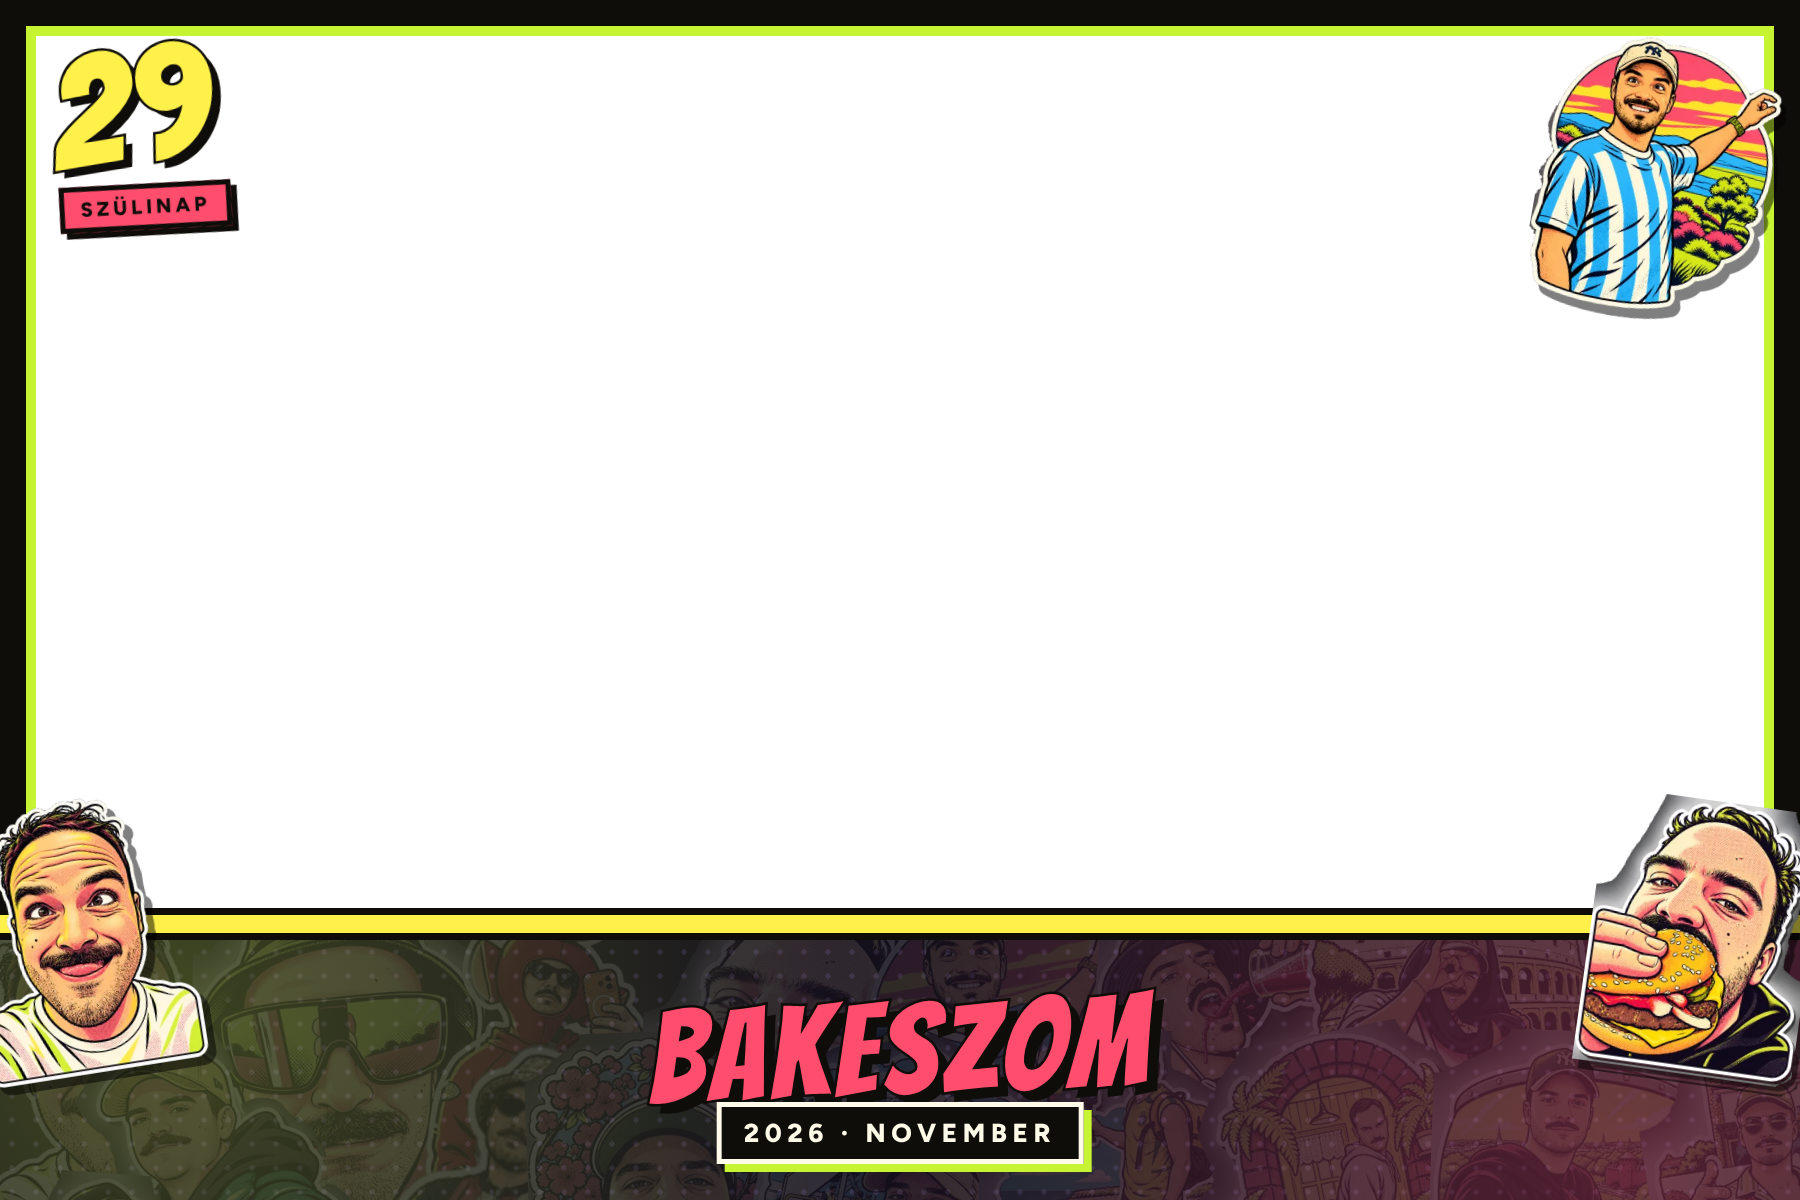
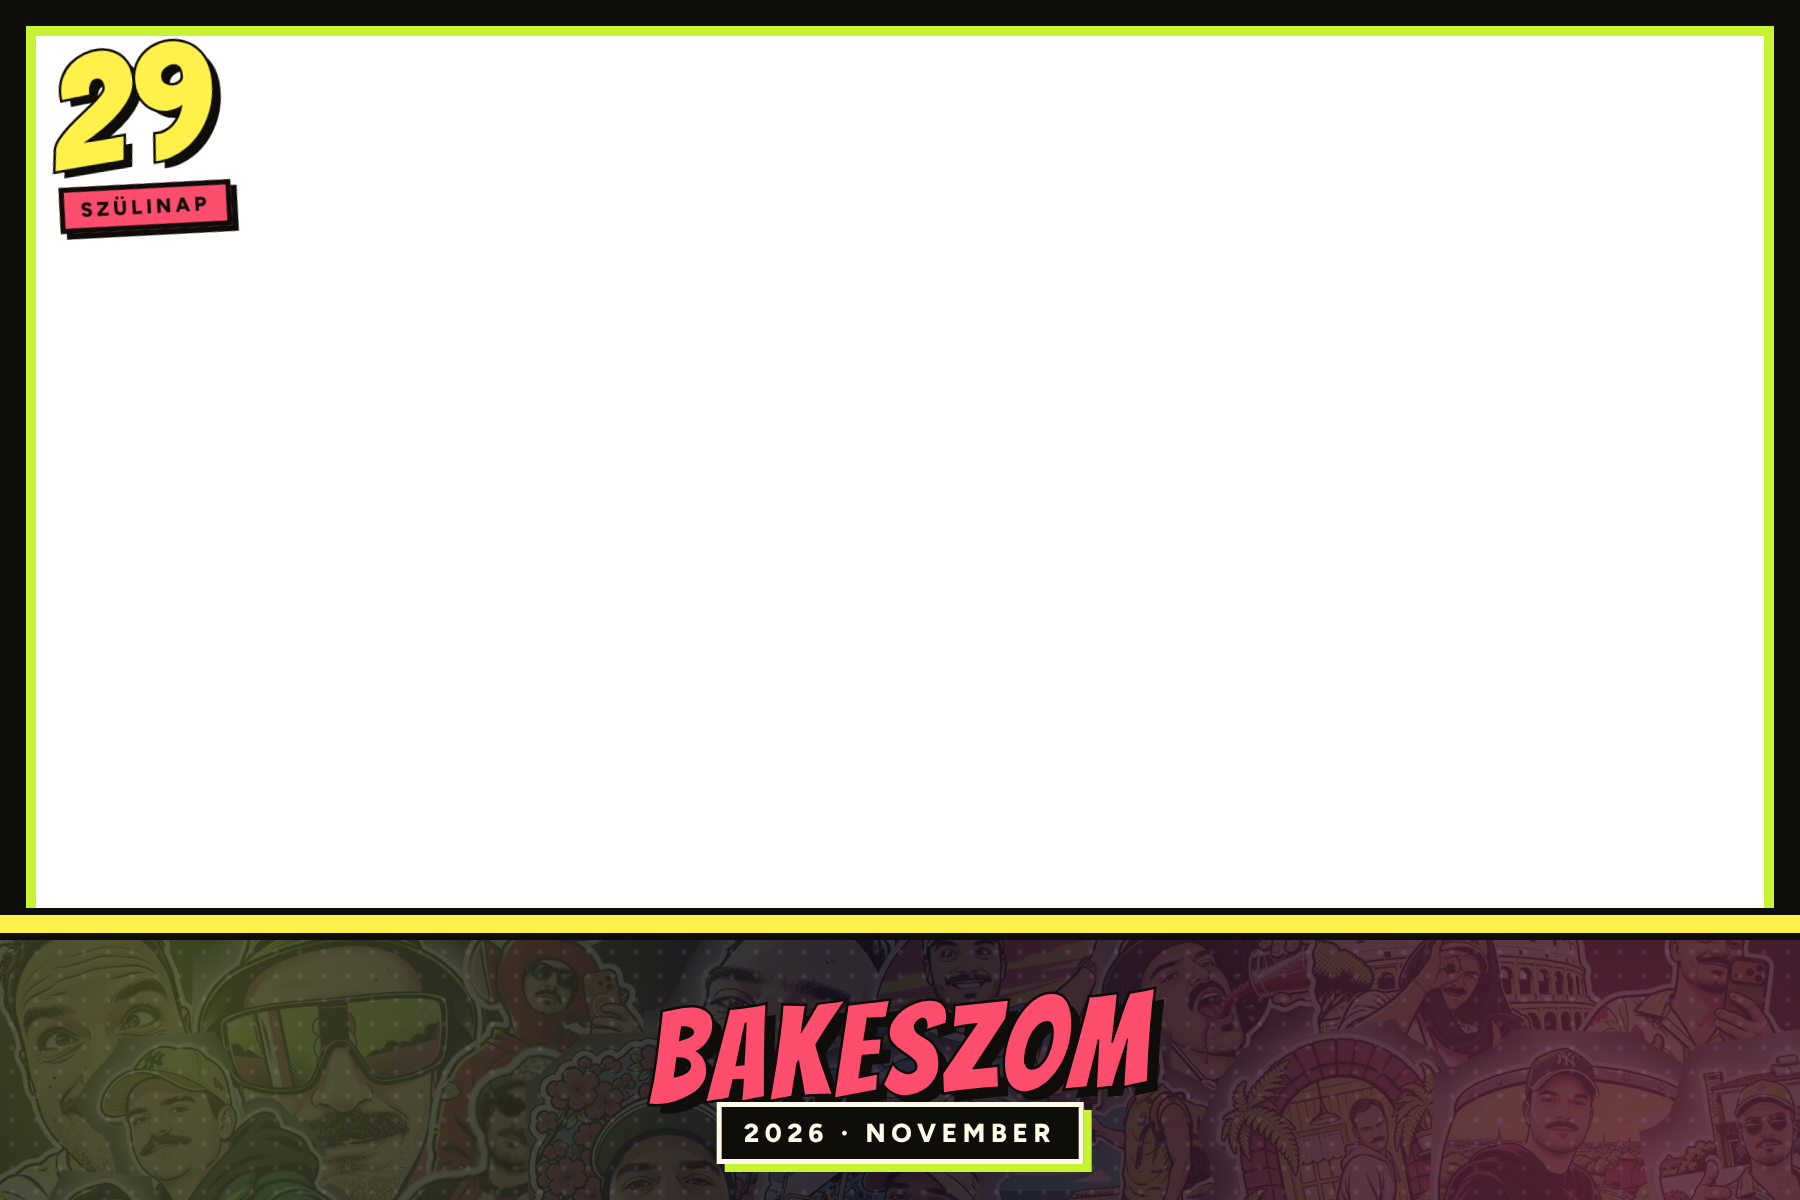
Szelfigép-keretek v3: matricák nélkül (a gépben külön rakhatók fel), minden más változatlan
Claude-Session: https://claude.ai/code/session_015SojQ3yjqSSEfb5kNKMW4T

Changed region(s): [[0.8711, 0.6475, 1.0, 0.925], [0.84, 0.0308, 0.9956, 0.2775], [0.0, 0.6475, 0.1244, 0.925]]

diff --git a/szelfigep-keretek/frame.html b/szelfigep-keretek/frame.html
@@ -36,9 +36,5 @@ function hd(n,x,y,w,rot){const e=document.createElement("img");e.className="hd";
 const m=document.getElementById("mont"), BH=P?330:260, cols=P?6:8, cw=W/cols;
 for(let i=0;i<17;i++){const e=document.createElement("img");e.src=`stk/stk-${i+1}.webp`;const col=i%cols,row=Math.floor(i/cols);
   Object.assign(e.style,{left:(col*cw-cw*.15+((row%2)?cw*.5:0))+"px",top:(row*(BH*.55)-BH*.2)+"px",width:(cw*1.3)+"px",transform:`rotate(${(i*37%24)-12}deg)`});m.appendChild(e)}
-if(P){ // 1200x1800 – két erős matrica a sarkokban
-  stk(1,-30,H-470,230,-10); stk(4,W-220,H-470,230,8); stk(5,W-280,40,250,9);
-}else{ // 1800x1200
-  stk(1,-30,H-400,220,-9); stk(4,W-210,H-400,220,8); stk(5,W-260,40,230,10);
-}
+// erős matricák nincsenek a kereten – a szelfigépben külön rakhatók fel
 </script></body></html>
